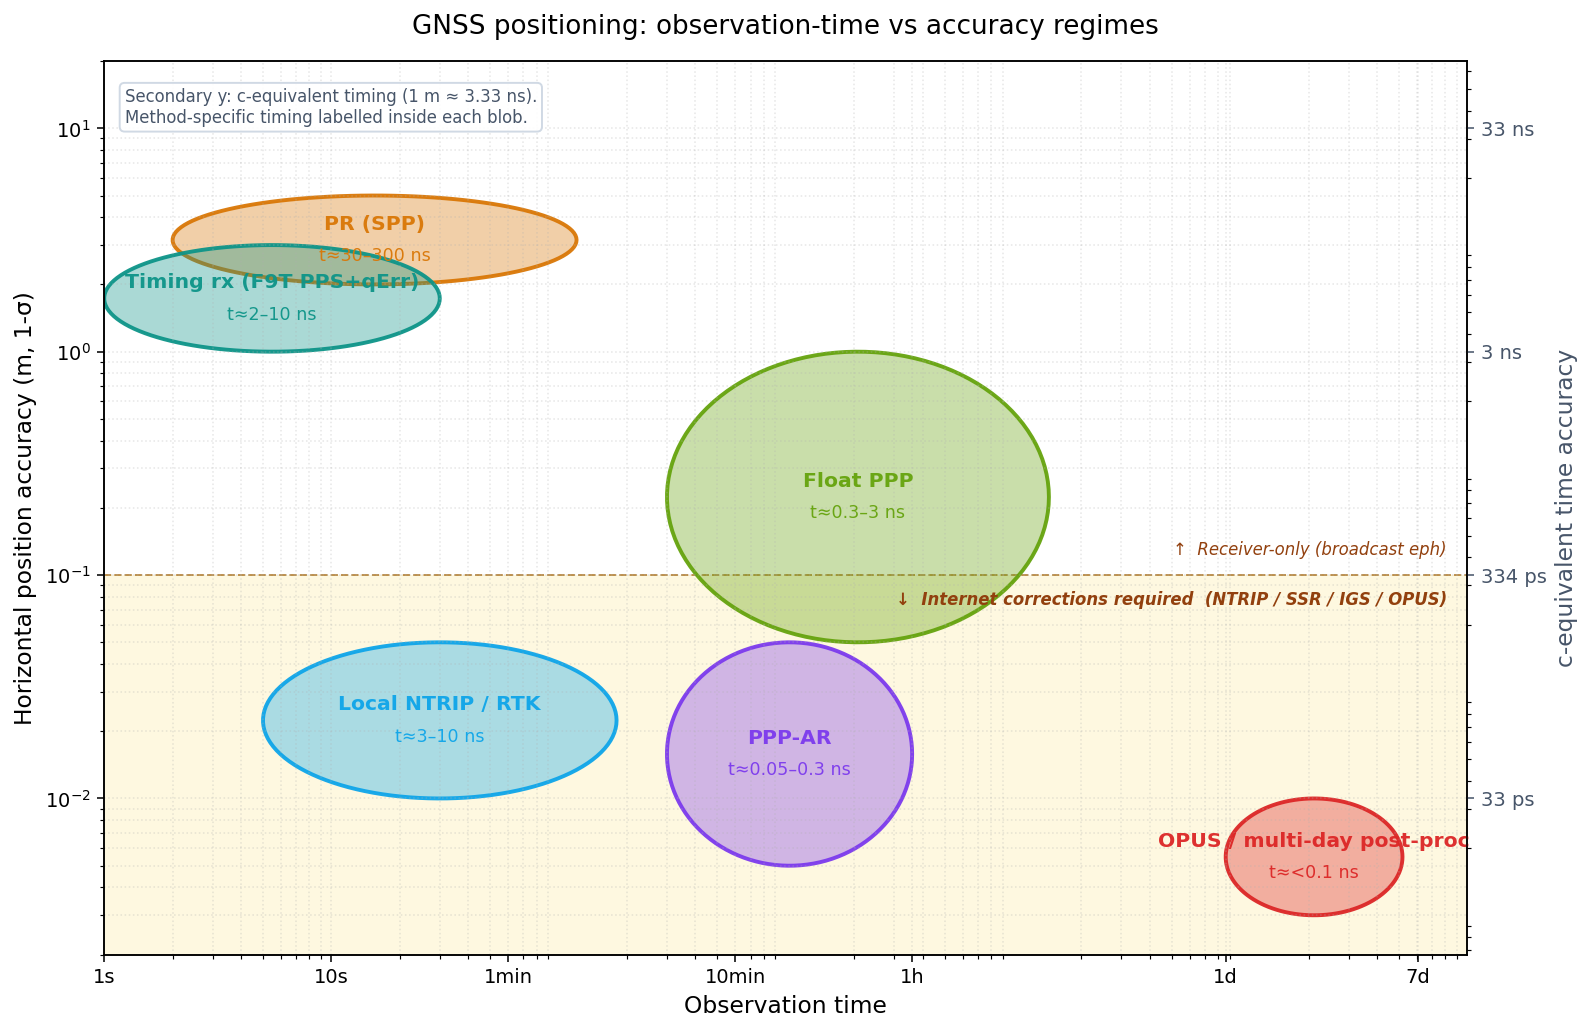
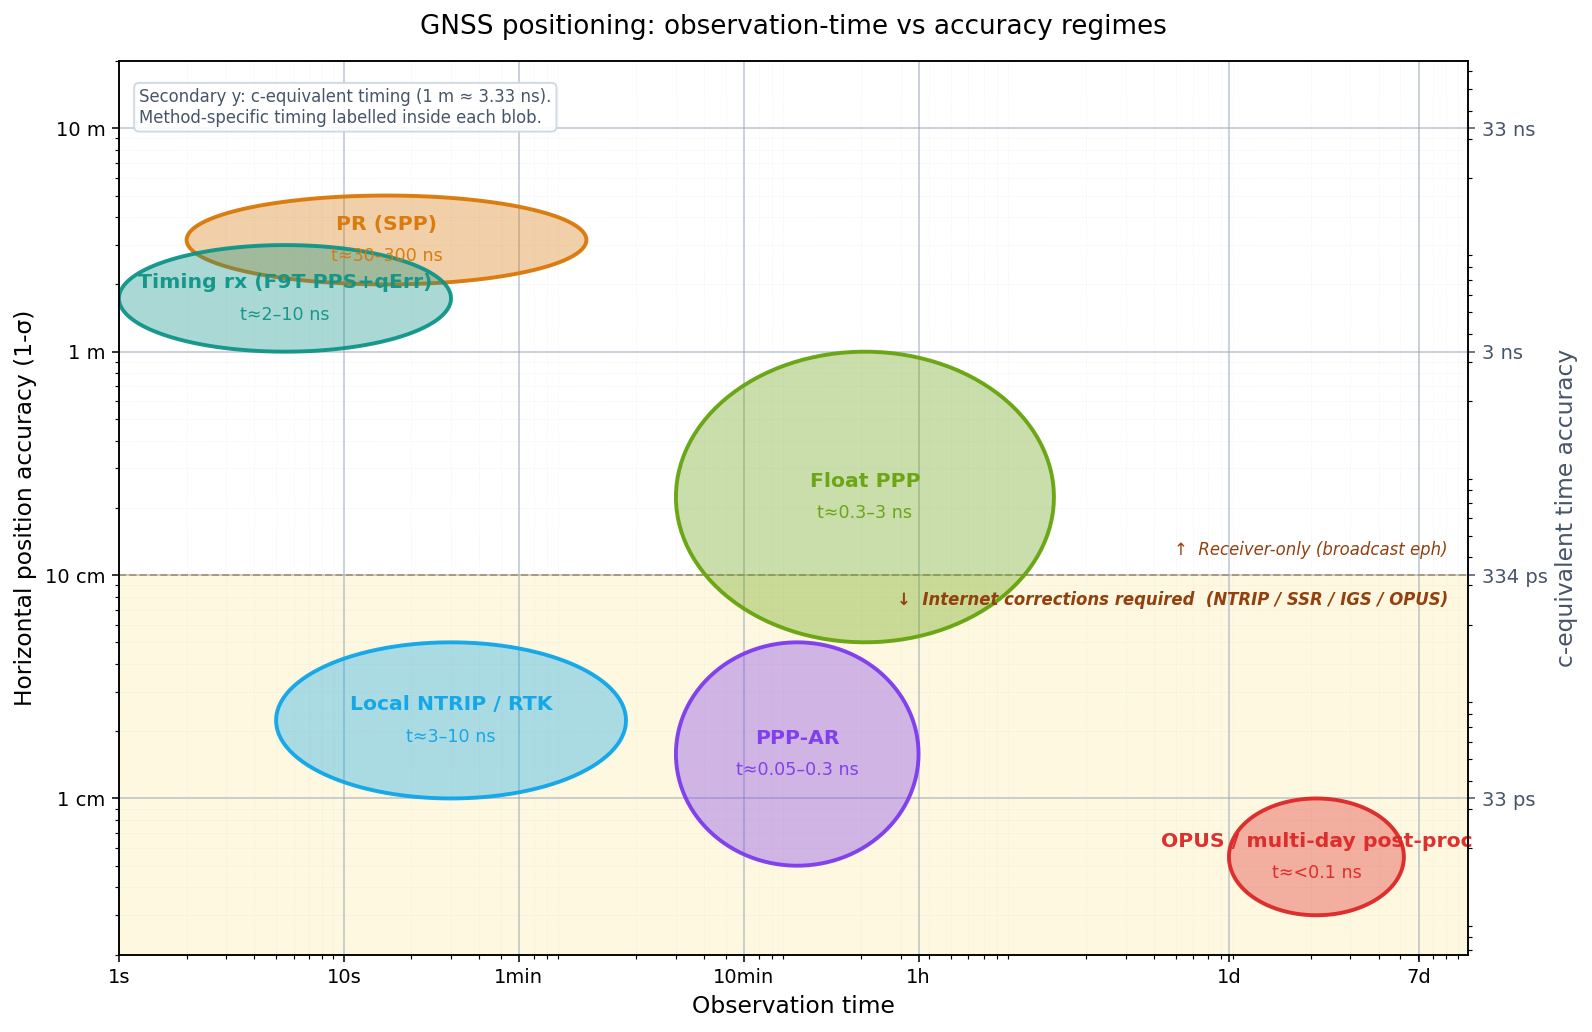
gnss-accuracy-blobs: cm/m y-axis labels + decade vs in-decade gridlines
Per Bob: explicit 1 cm / 10 cm / 1 m / 10 m y-axis labels (not the
default scientific notation 10⁻²/10⁻¹/…), and make the decade
gridlines pronounced relative to the in-decade subdivisions so the
structure reads at a glance.

  - Y-ticks: hard-coded at [0.01, 0.10, 1.0, 10.0] m, labelled
    "1 cm" / "10 cm" / "1 m" / "10 m".
  - Minor y-ticks: 2..9 × each decade via LogLocator(subs=range(2,10)),
    drawn unlabelled so the eye can judge intermediate positions.
  - Major gridlines (decades / labelled times): solid, alpha 0.55,
    linewidth 0.9.
  - Minor gridlines (in-decade subdivisions): dotted, alpha 0.18,
    linewidth 0.4.
  - set_axisbelow(True) so the gridlines sit under the blobs and the
    shaded internet-band, not on top.

Side benefit: the internet-corrections boundary at 10 cm now aligns
exactly with a labelled y-tick, so the "receiver-only vs internet
required" split is visually anchored.

diff --git a/tools/plot_gnss_accuracy_blobs.py b/tools/plot_gnss_accuracy_blobs.py
@@ -134,13 +134,31 @@ def main():
     ax.set_xlim(1, 1e6)
     ax.set_ylim(2e-3, 20)
 
-    # X ticks: human-readable observation times.
+    # X ticks: human-readable observation times (major).
     xticks = [1, 10, 60, 600, 3600, 86400, 604800]
     ax.set_xticks(xticks)
     ax.set_xticklabels([_fmt_time(s) for s in xticks])
+    # Y ticks: explicit decade labels in human-readable cm/m units.
+    yticks = [0.01, 0.10, 1.0, 10.0]
+    ytick_labels = ["1 cm", "10 cm", "1 m", "10 m"]
+    ax.set_yticks(yticks)
+    ax.set_yticklabels(ytick_labels)
+    # Minor ticks: the in-decade subdivisions of the log scale (2, 3,
+    # ..., 9 × each decade) — drawn but unlabeled, so the eye can
+    # judge intermediate positions.
+    from matplotlib.ticker import LogLocator, NullFormatter
+    ax.yaxis.set_minor_locator(LogLocator(base=10, subs=range(2, 10)))
+    ax.yaxis.set_minor_formatter(NullFormatter())
+
     ax.set_xlabel("Observation time", fontsize=12)
-    ax.set_ylabel("Horizontal position accuracy (m, 1-σ)", fontsize=12)
-    ax.grid(True, which="both", alpha=0.3, linestyle=":")
+    ax.set_ylabel("Horizontal position accuracy (1-σ)", fontsize=12)
+    # Decade gridlines pronounced; in-decade subdivisions present but
+    # subtle so the decade structure reads at a glance.
+    ax.grid(True, which="major", alpha=0.55, linewidth=0.9,
+            linestyle="-", color="#94a3b8")
+    ax.grid(True, which="minor", alpha=0.18, linewidth=0.4,
+            linestyle=":", color="#94a3b8")
+    ax.set_axisbelow(True)
     ax.set_title("GNSS positioning: observation-time vs accuracy regimes",
                  fontsize=13.5, pad=14)
 
